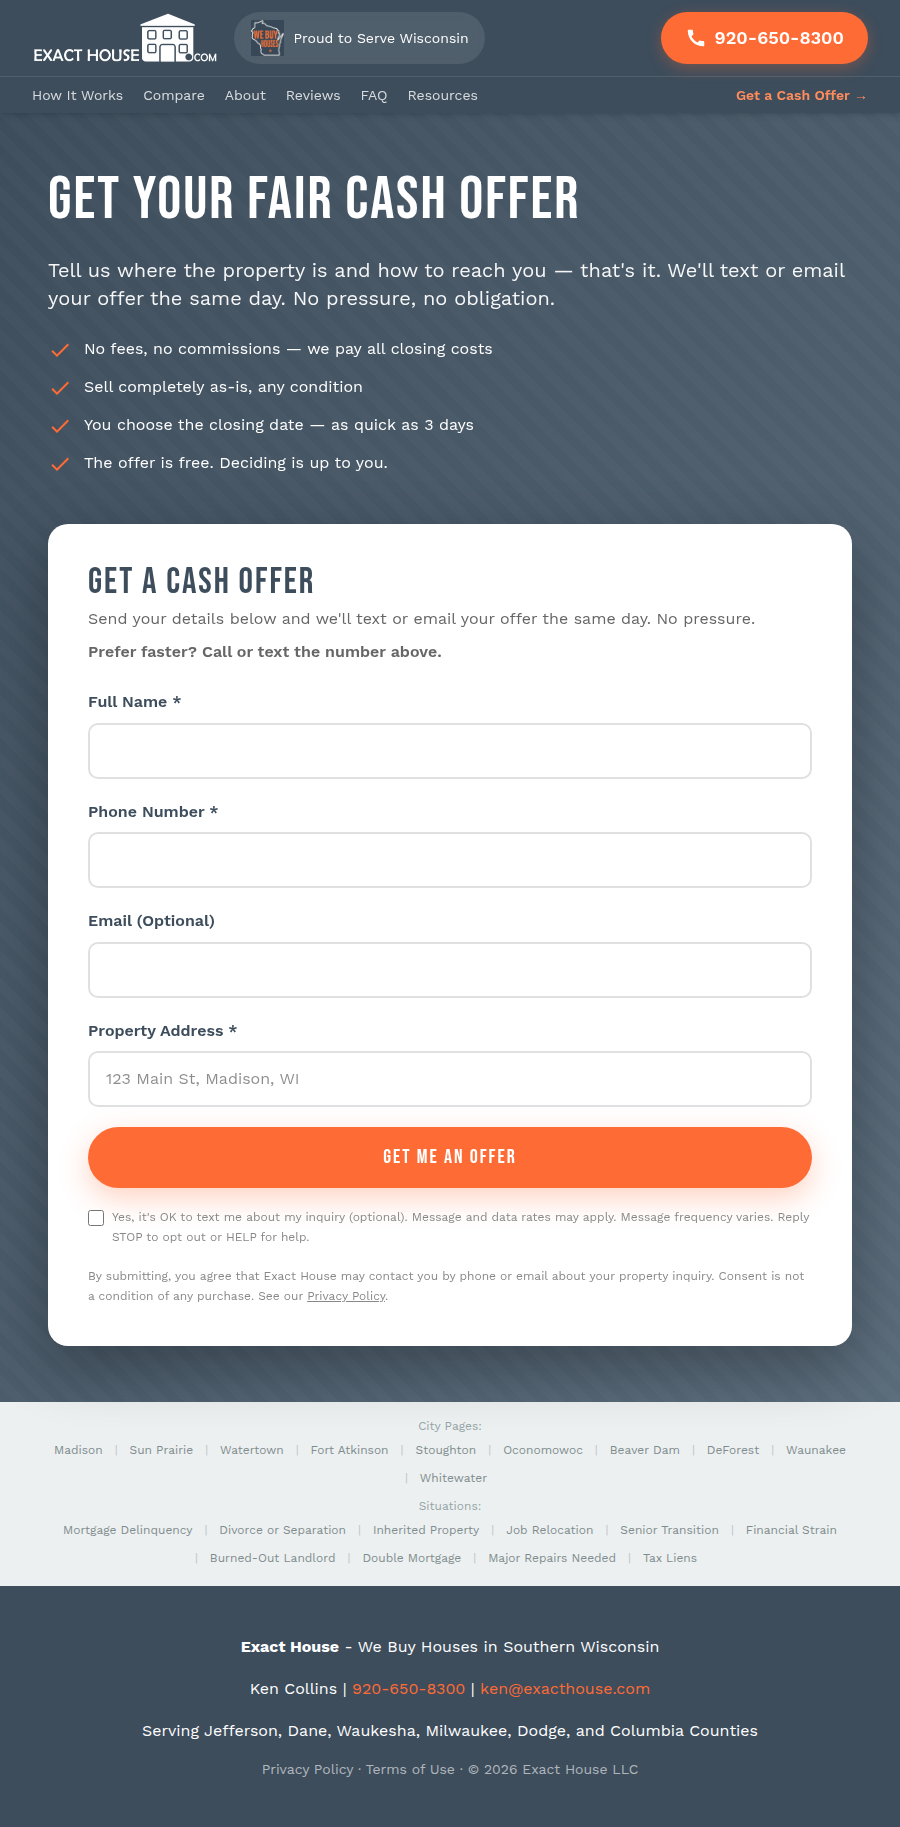
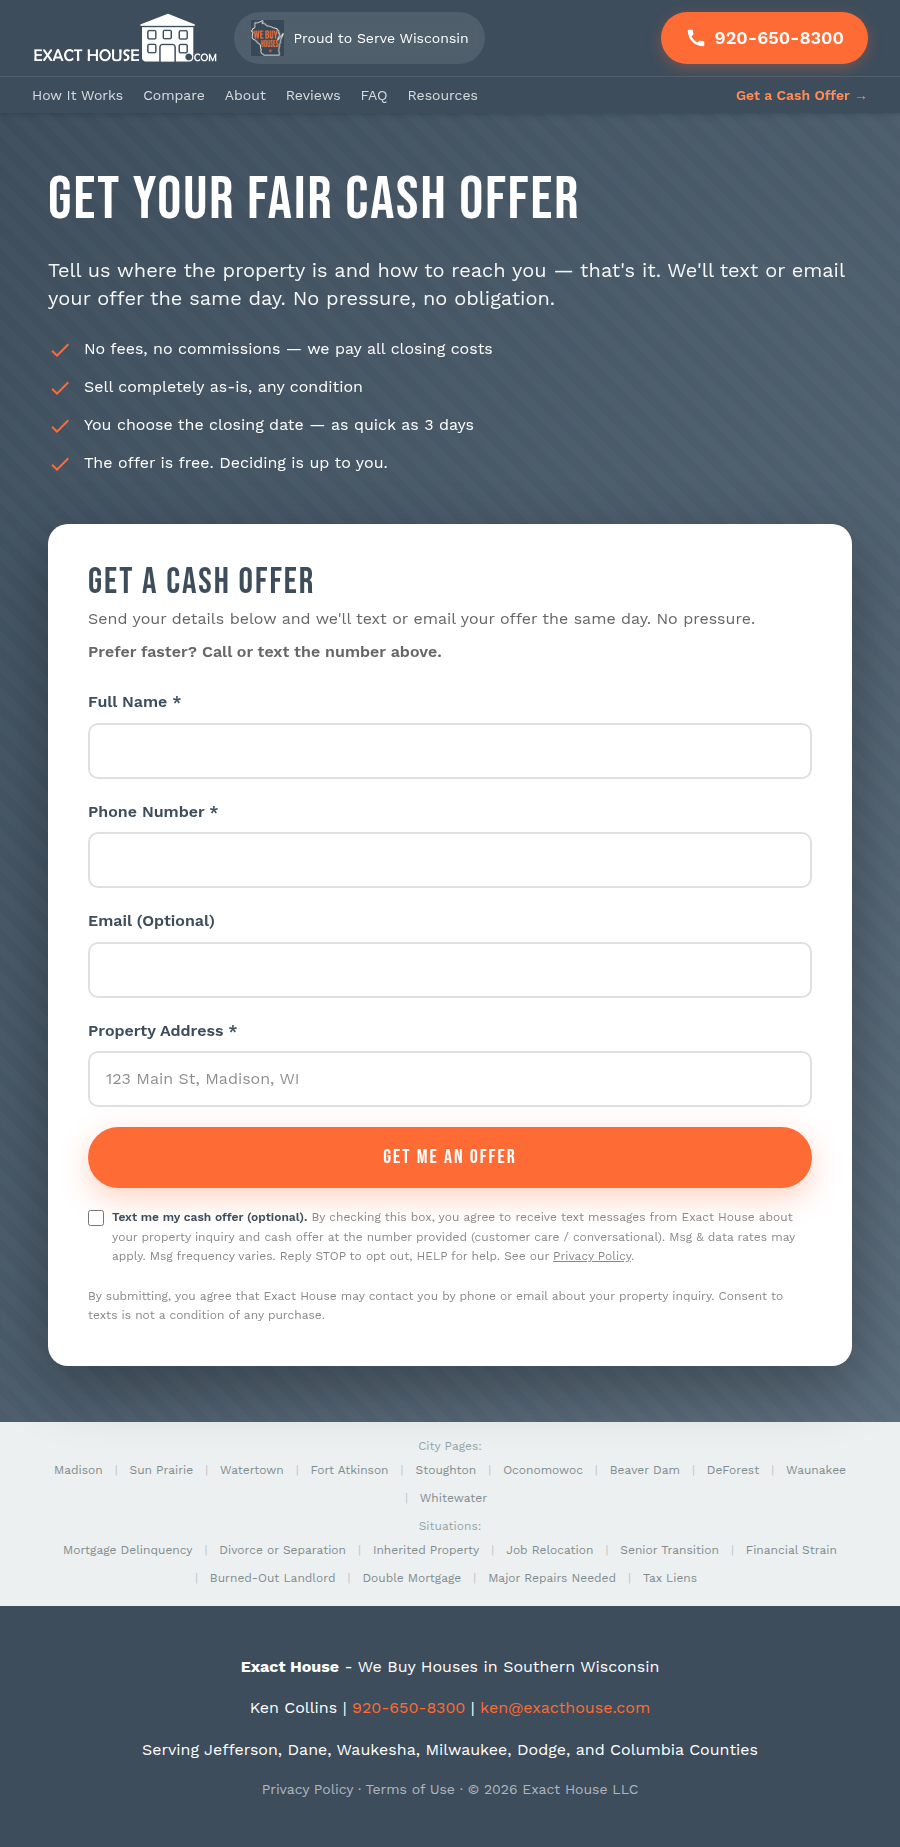
Branded SMS opt-in with full CTIA disclosures (TFV reviewer fix)
Reviewer: 'Opt in must be branded... missing CTIA disclosures (use case,
data rates, frequency, STOP, HELP, Privacy policy).' The consent checkbox
on both sites now carries all CTIA elements in one branded block: brand
name, SMS use case (customer care/conversational), msg & data rates,
frequency, STOP/HELP, and the Privacy Policy link. Opt-in screenshot
regenerated.

Claude-Session: https://claude.ai/code/session_01P4pXHcXzWHbQxo1K6swbLj

diff --git a/sites/forwardhomebuyer/src/components/LeadForm.tsx b/sites/forwardhomebuyer/src/components/LeadForm.tsx
@@ -158,9 +158,10 @@ export default function LeadForm({ formName, hidden = {} }: Props) {
           {submitting ? "Submitting…" : "Get My Cash Offer →"}
         </button>
 
-        {/* Optional SMS opt-in (unchecked by default) + disclosure — carriers
-            require text-message consent to be optional, not a condition of
-            submitting the form. */}
+        {/* Optional, branded SMS opt-in with full CTIA disclosures in one
+            block (use case, rates, frequency, STOP/HELP, privacy) — required
+            for toll-free verification. Unchecked by default; not a condition
+            of submitting the form. */}
         <label className="flex items-start gap-2 text-xs leading-relaxed text-[#9CA3AF]">
           <input
             type="checkbox"
@@ -169,19 +170,24 @@ export default function LeadForm({ formName, hidden = {} }: Props) {
             className="mt-0.5 h-4 w-4 shrink-0 accent-accent-600"
           />
           <span>
-            Yes, it&apos;s OK to text me about my inquiry (optional). Message and
-            data rates may apply. Message frequency varies. Reply STOP to opt
-            out or HELP for help.
+            <span className="font-bold text-brand-900">
+              Text me my cash offer (optional).
+            </span>{" "}
+            By checking this box, you agree to receive text messages from{" "}
+            {site.name} about your property inquiry and cash offer at the number
+            provided (customer care / conversational). Msg &amp; data rates may
+            apply. Msg frequency varies. Reply STOP to opt out, HELP for help.
+            See our{" "}
+            <Link href="/privacy" className="underline hover:text-brand-800">
+              Privacy Policy
+            </Link>
+            .
           </span>
         </label>
         <p className="text-xs leading-relaxed text-[#9CA3AF]">
           By submitting, you agree that {site.name} may contact you by phone or
-          email about your property inquiry. Consent is not a condition of any
-          purchase. See our{" "}
-          <Link href="/privacy" className="underline hover:text-brand-800">
-            Privacy Policy
-          </Link>
-          .
+          email about your property inquiry. Consent to texts is not a condition
+          of any purchase.
         </p>
       </form>
     </div>

diff --git a/src/components/LeadForm.tsx b/src/components/LeadForm.tsx
@@ -153,9 +153,10 @@ export default function LeadForm({ formName, hidden = {} }: Props) {
           {submitting ? "Sending…" : "Get Me An Offer"}
         </button>
 
-        {/* Optional SMS opt-in (unchecked by default) + disclosure — carriers
-            require text-message consent to be optional, not a condition of
-            submitting the form. */}
+        {/* Optional, branded SMS opt-in with full CTIA disclosures in one
+            block (use case, rates, frequency, STOP/HELP, privacy) — required
+            for toll-free verification. Unchecked by default; not a condition
+            of submitting the form. */}
         <label className="flex items-start gap-2 text-xs leading-relaxed text-[#888]">
           <input
             type="checkbox"
@@ -164,19 +165,24 @@ export default function LeadForm({ formName, hidden = {} }: Props) {
             className="mt-0.5 h-4 w-4 shrink-0 accent-accent-600"
           />
           <span>
-            Yes, it&apos;s OK to text me about my inquiry (optional). Message and
-            data rates may apply. Message frequency varies. Reply STOP to opt
-            out or HELP for help.
+            <span className="font-semibold text-brand-800">
+              Text me my cash offer (optional).
+            </span>{" "}
+            By checking this box, you agree to receive text messages from Exact
+            House about your property inquiry and cash offer at the number
+            provided (customer care / conversational). Msg &amp; data rates may
+            apply. Msg frequency varies. Reply STOP to opt out, HELP for help.
+            See our{" "}
+            <Link href="/privacy" className="underline hover:text-accent-600">
+              Privacy Policy
+            </Link>
+            .
           </span>
         </label>
         <p className="text-xs leading-relaxed text-[#888]">
           By submitting, you agree that Exact House may contact you by phone or
-          email about your property inquiry. Consent is not a condition of any
-          purchase. See our{" "}
-          <Link href="/privacy" className="underline hover:text-accent-600">
-            Privacy Policy
-          </Link>
-          .
+          email about your property inquiry. Consent to texts is not a condition
+          of any purchase.
         </p>
       </form>
     </div>
